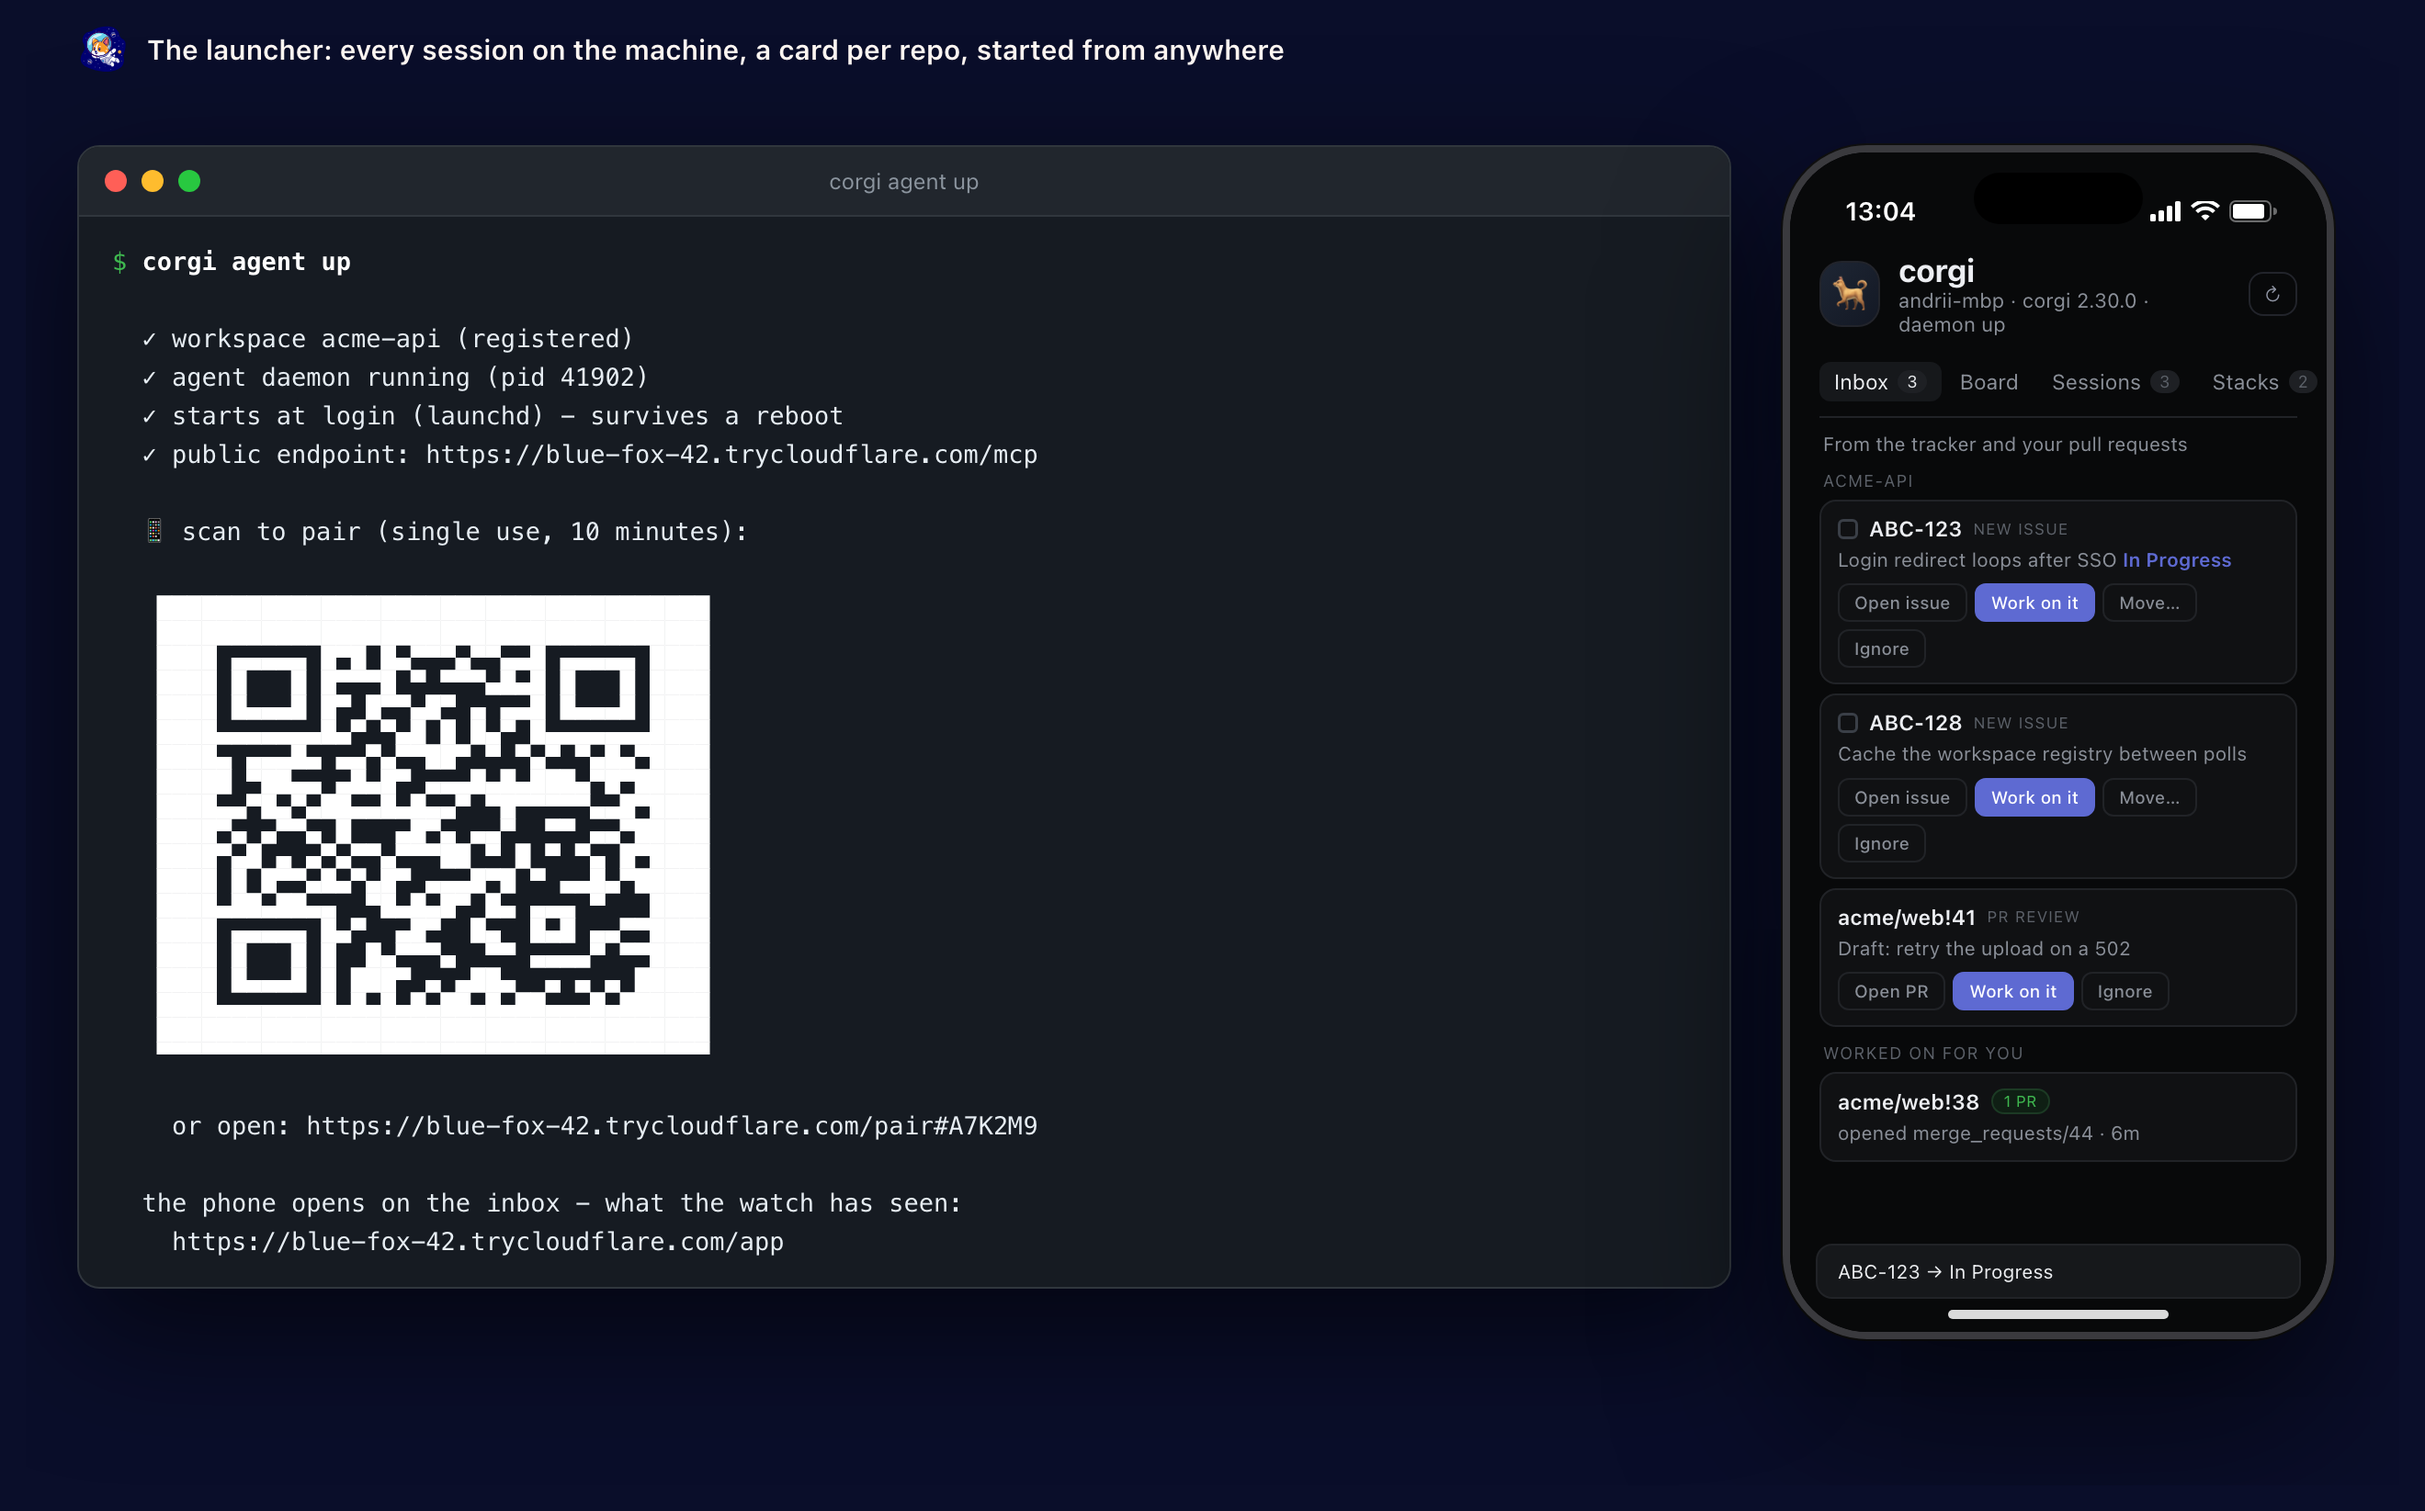
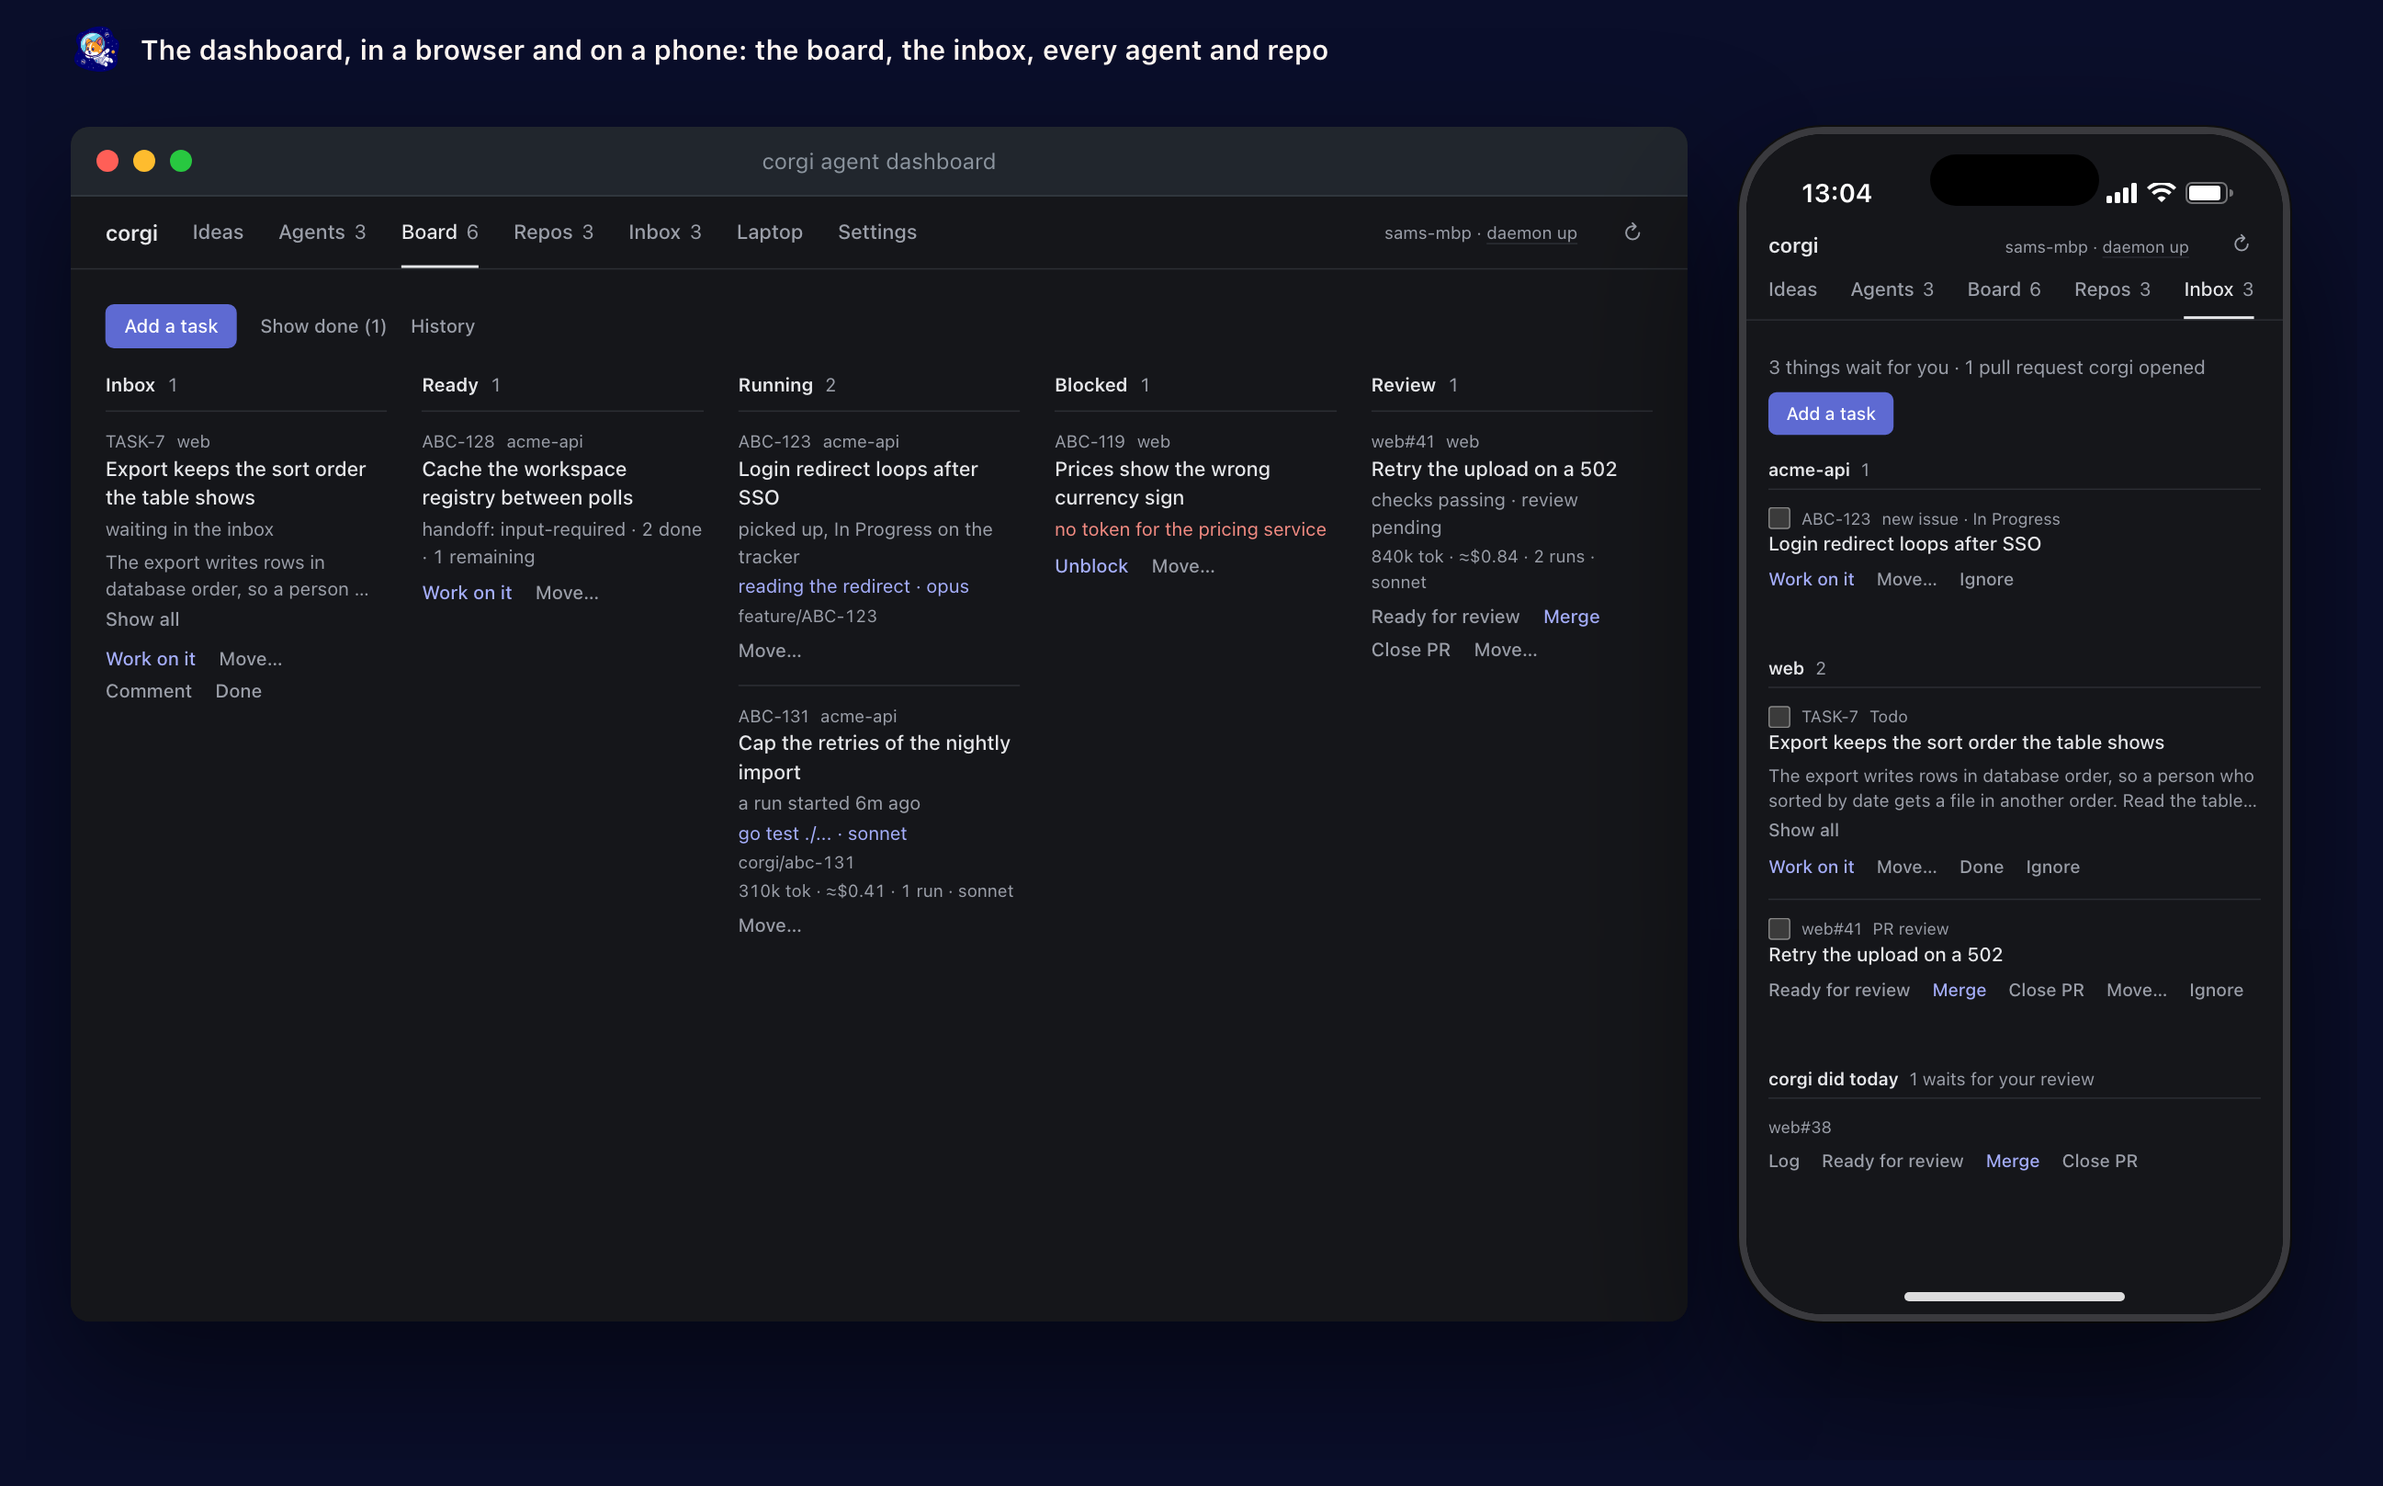
The docs show the dashboard as it is now: the picture is drawn from the real page, the launcher section names its tabs and controls, and the Mac app's loop is the current one

diff --git a/docs/agent.md b/docs/agent.md
@@ -111,25 +111,36 @@ the phone paired across restarts; the quick tunnel does not.
 
 ### What the launcher looks like
 
-One card per repo: a dot, the repo, the checkout under it, what it is doing,
-what it has cost, and the running session on its own row - tap that row and
-the conversation opens. Above the cards, when the machine has editor windows
-open: the session board with a **New chat** box (prompt, window, model,
-account) and every live session with Allow / Deny / Send under it (see
-"Typing into a session from elsewhere"). The green button on the right is **Open** when a
+The same page on a phone and in a browser (`corgi agent dashboard` opens it
+here), light or dark as the device is set. Seven tabs:
+
+| tab | what is in it |
+|---|---|
+| **Ideas** | the idea pages, with Share |
+| **Agents** | a **New chat** box (prompt, window, model, account) when the machine has editor windows open, each account's five-hour window, and every live session with Allow / Deny / Send under it (see "Typing into a session from elsewhere") |
+| **Board** | a card per ticket: Inbox, Ready, Running, Blocked, Review side by side on a wide screen and stacked on a phone; Done is below them, shown on request. **Show all** opens a long description in place, **Comment** writes to the agent on a task, **Add a task**, **History** |
+| **Repos** | a row per repo, below |
+| **Inbox** | what waits for you, by workspace, and what corgi did. Tick rows to move, ignore or ship them together; a routine's row has **Read the report** |
+| **Laptop** | commands to run on the machine, to copy |
+| **Settings** | the connector, this browser, paired devices, doctor |
+
+A row per repo: a dot, the repo, the checkout under it, what it is doing,
+what it has cost, and the running session on its own line - tap that line and
+the conversation opens. The button on the right is **Open** when a
 session is up and **Start** when it is not. Under it sit the controls that
-change something: `sessions` (the full list, the timeline, and everything the
-daemon knows about that workspace), `open in` (app / browser / chrome),
-`options` (account and starting name), `Stop`, `hide`.
+change something: **Sessions** (the full list, the timeline, and everything the
+daemon knows about that workspace), **Open in** (app / browser / chrome),
+**Options** (account and starting name), **Stop**, **Hide**.
 
 The dot is the state, and the line under the path spells it out:
 
 | dot | state |
 |---|---|
 | green | a session is running (`N live`) |
-| green, pulsing | `starting` - supervised, nothing registered yet |
+| green ring | `online · no session` - reachable, nothing opened yet |
+| indigo | `starting` - supervised, nothing registered yet |
 | amber | `needs you` - a permission prompt or a question is blocking it |
-| red | `will not start` - the daemon refused, and the reason is on the card |
+| red | `will not start` - the daemon refused, and the reason is on the row |
 | red | `disabled after repeated failures` - the daemon stopped retrying |
 | grey | nothing running here |
 
@@ -140,15 +151,17 @@ allow or deny the edit*). Next to the path is the branch, with a `*` when the
 checkout has uncommitted work, which is the fastest way to tell two clones of
 the same repo apart.
 
-The `sessions` panel ends with **this workspace**: checkout, account,
+The **Sessions** panel ends with **This repo**: checkout, account,
 how long it has been supervised and what started it, restarts and the last
 exit cause, whether the machine is being held awake for it, and its pid. The
 same facts `corgi agent status` prints on the laptop.
 
 The list refreshes itself every 15 seconds while the page is on screen, so a
 name, a state or a session that changed on the machine shows up without a
-reload. It holds still while a `sessions` or `options` panel is open, so a
-refresh never collapses the panel under your thumb.
+reload. It holds still while a **Sessions** or **Options** panel is open, while
+a comment is half typed and while rows are ticked, so a refresh never takes
+what you were doing with it. With the laptop asleep or offline it says so and
+offers **Try again**.
 
 ### A launcher URL that never changes
 
@@ -240,8 +253,8 @@ is which. **Stop** on a session that belongs to an autostart workspace ends the
 session and puts the device back - the machine stays reachable.
 
 `corgi agent status` shows the resting state as `online` with *device only · no
-session opened at start*; the launcher card says *online · no session* with a solid
-green dot, and its button is **Start**. A restart of the daemon now leaves nothing
+session opened at start*; the launcher row says *online · no session* with a green
+ring, and its button is **Start**. A restart of the daemon now leaves nothing
 behind on claude.ai.
 
 Want the old behaviour for one workspace - a session already waiting in the list the
@@ -524,7 +537,7 @@ which no local probe can know:
 corgi agent session start acme --name "fix login redirect"
 ```
 
-The launcher asks for it too - the `options` chip on a stopped card - and
+The launcher asks for it too - **Options** on a stopped repo - and
 `corgi_session_start` takes a `name`.
 
 ### The timeline
@@ -559,12 +572,12 @@ $ corgi agent status
                        tokens 147.3M today · 1.0B this week
 ```
 
-The launcher shows the same two numbers on each card. Cache reads are included,
+The launcher shows the same two numbers on each repo. Cache reads are included,
 which is why the totals are large - that is the real traffic against the window.
 
 ### Hiding a workspace on the phone
 
-Each card has a **hide** chip. Hidden cards collapse into one `N hidden - show`
+Each repo has **Hide**. Hidden ones collapse into one **Show N hidden**
 button. It is stored in that browser only and changes nothing on the machine -
 it exists for the moment someone else is looking at your screen. To actually
 stop supervising a workspace, `corgi agent workspaces pause <id>` (sets

diff --git a/docs/sessions.md b/docs/sessions.md
@@ -12,8 +12,8 @@ does right now. Three clients show it:
 | [Corgi Agent Deck](https://github.com/Andriiklymiuk/corgi-agent-deck), Stream Deck | one key per session, Talk, Prompt and Budget keys |
 | [corgi-band](../plugins/corgi-band) mod, inside Claude Code | a band above the prompt with the sessions waiting on you and what this turn posted; `/corgi` opens the board in a pane |
 
-<p align="center"><img src="media/bar-showcase.gif" width="760" alt="Corgi Agents for Mac: home, dictation, a workspace, the board, the inbox, the accounts"></p>
-<p align="center"><sub>The Mac menu bar app: home, dictation, a workspace, the board, the inbox, the accounts.</sub></p>
+<p align="center"><img src="media/bar-showcase.gif" width="760" alt="Corgi Agents for Mac: home, dictation, a workspace, the board, the inbox, the idea pages, the accounts"></p>
+<p align="center"><sub>The Mac menu bar app: home, dictation, a workspace, the board, the inbox, the idea pages, the accounts.</sub></p>
 <p align="center"><img src="https://raw.githubusercontent.com/Andriiklymiuk/corgi_vscode_extension/main/media/sessions.png" width="380" alt="The Agent sessions view in VS Code"></p>
 
 <p align="center"><img src="https://raw.githubusercontent.com/Andriiklymiuk/corgi-agent-deck/main/media/deck-mk2.png" width="760" alt="Corgi Agent Deck on a Stream Deck"></p>

diff --git a/docs/phone.md b/docs/phone.md
@@ -40,8 +40,8 @@ $ corgi agent up
 
 One scan pairs the phone. It gets its own token, revocable without touching your other devices. Each workspace remembers where it should open - personal projects in the Claude app, a work repo on a different Claude account in Chrome signed into that account. Save the launcher to your home screen and it is one tap after that.
 
-<p align="center"><img src="media/dashboard.gif" width="900" alt="The phone launcher: every Claude session on the machine, accounts and their windows, a card per repo with Open and Start, the sessions panel, doctor checks"></p>
-<p align="center"><sub>The launcher: every session on the machine, a card per repo, started from anywhere.</sub></p>
+<p align="center"><img src="media/dashboard.gif" width="900" alt="The launcher in a browser and on a phone: the board with its five columns and a task's text opened in place, a ticket moved from its inbox row, every Claude session with Allow and Deny, the repos with Open and Start"></p>
+<p align="center"><sub>The launcher in a browser and on a phone: the board, the inbox, every agent and repo. Light or dark, as the device is set.</sub></p>
 
 ## Adding your other repos
 

diff --git a/docs/unattended.md b/docs/unattended.md
@@ -141,7 +141,7 @@ for the apps.
 
 Not everything comes from a
 tracker. `corgi agent task add "Meta SDK on iOS" --workspace app --body "…"` -
-or **+ Task for later** on the phone and the page - puts a ticket you wrote
+or **Add a task** on the page, **Task for later** on the phone - puts a ticket you wrote
 in the inbox and the Inbox column, with a description and the workspace it is
 for. **Work on it** opens a session in that checkout with the description as
 its prompt; the task moves to Doing at once and the card says *picked from
